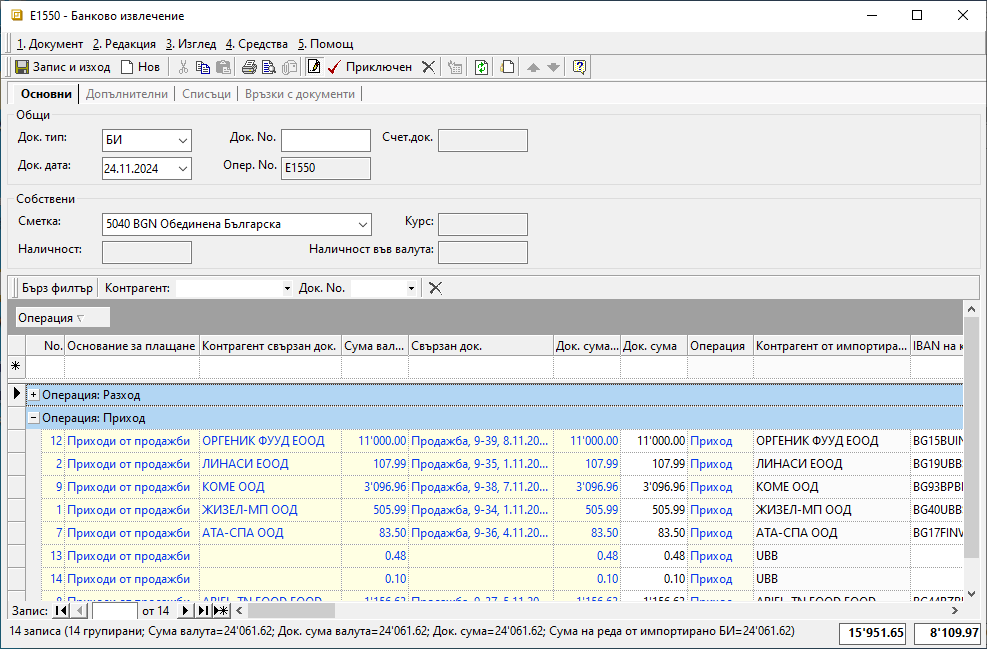
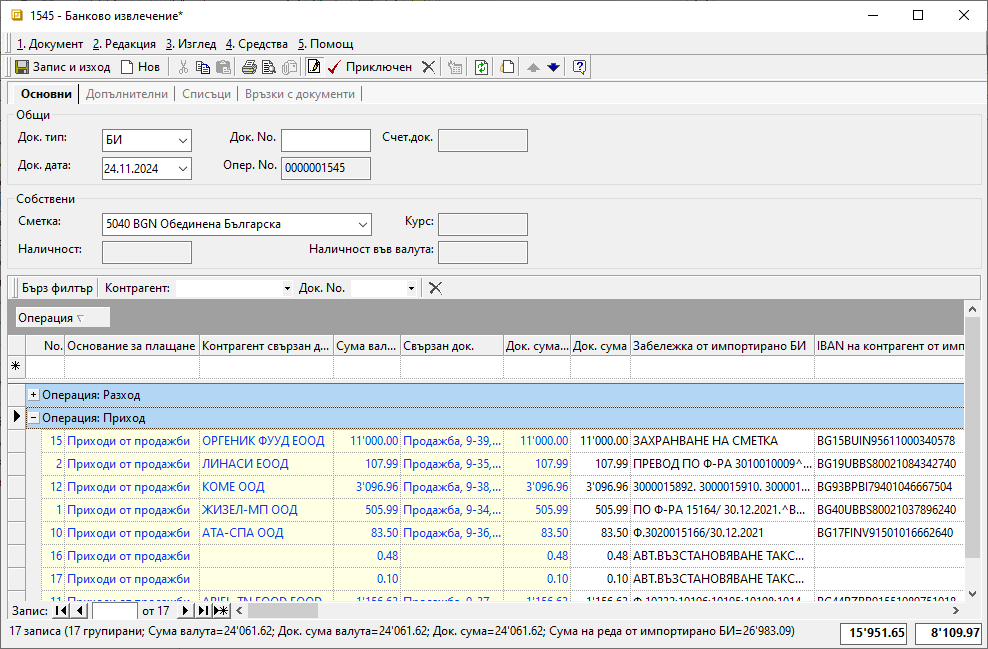
Редактиране на тема Импорт на БИ

diff --git a/blog/20241121-bank-statement-import.md b/blog/20241121-bank-statement-import.md
@@ -4,7 +4,7 @@
 
 # Импорт на банкови извлечения
 
-Чрез импорта на данни от банкови извлечения се подобрява точността на финансовите данни. Системата разполага със средство за автоматизирано прехвърляне на трансакции от банкови сметки и упражнява прецизен контрол по данъчни документи, товарителници, ППП.  
+Чрез импорта на информация от банкови извлечения се подобрява точността на финансовите данни. Системата разполага със средство за автоматизирано прехвърляне на трансакции от банкови сметки и упражнява прецизен контрол по данъчни документи, товарителници, ППП.  
 
 Системата обработва файлове в различни формати за интеграция с непрекъснато разширяващ се списъка от банки: ОББ, Уникредит, Алианц, Интернешънъл Асет Банк, Банка ДСК, Пощенска банка и други. 
 
@@ -47,11 +47,17 @@
 
 С прочитането на файла системата търси съвпадение по IBAN, така че да свърже всяка трансакция с точния контрагент в базата и неплатените му документи. Когато не е открито съзпадение, записите за тези суми ще останат в редове без свързани документи и контрагенти. 
 
+> В банковия документ системата автоматично свързва данъчни документи по номера, отговарящи на тези, цитирани като основание на превод.    
+> Ако сумата на превода от контрагент надвишава неплатените остатъци по документи, системата добавя разликата като отделен ред в банковия документ. 
+
 За улеснение, по подразбиране колона *Основание за плащане* се обзавежда с *Разходи за покупки* за операции тип *Разход* и с *Приходи от продажби* за тези от тип *Приход*. Основанията могат да бъдат редактирани. Спрямо тях системата ще приложи настройките от **Автоматичен осчетоводител**.   
+
 
 ![](20241121-bank-statement-import6.png){ class=align-center }
 
 Системата предлага функция за въвеждане на допълнителни редове в банковия документ след импорта на данни. Това става с десен бутон на мишката върху ред от документа и опция *Нов ред в импортирано БИ*. Новият ред е копие на посочения с десен бутон ред, но с нулеви стойности в полетата със суми.  
+
+> В импортирано БИ не трябва се добавят ръчно нови редове, т.к. за тях ще липсва връзка с импортирания файл.  
 
 ![](20241121-bank-statement-import7.png){ class=align-center }
 
